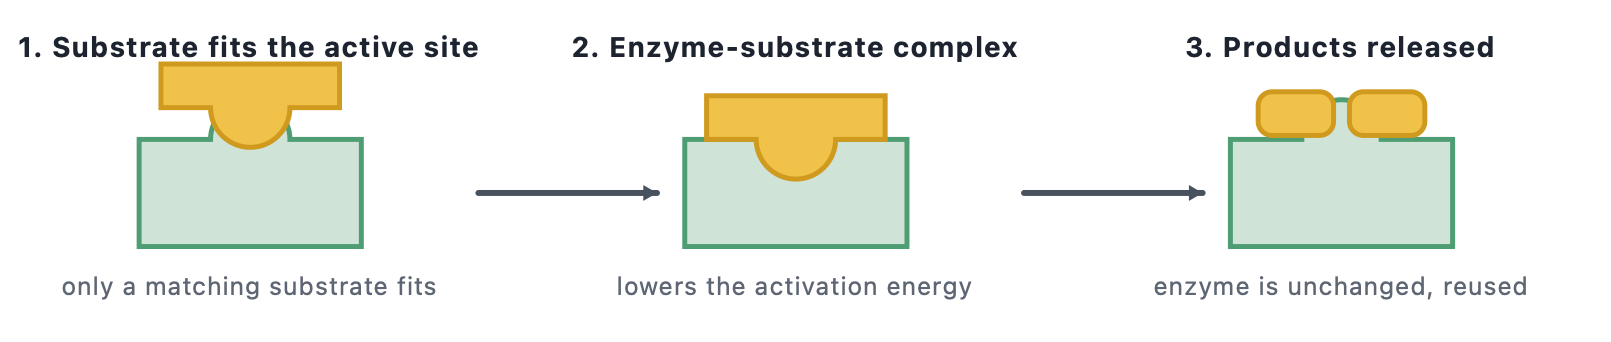
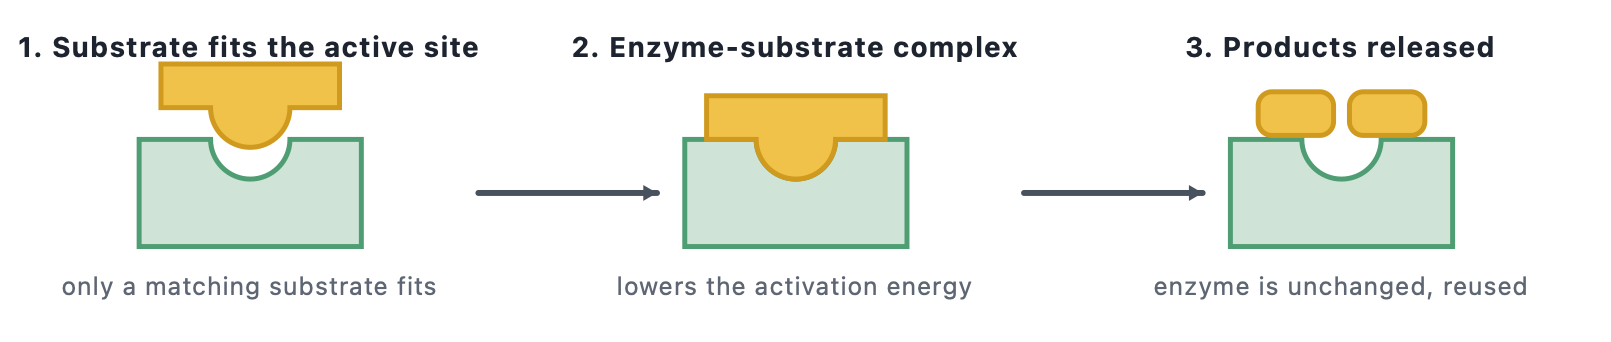
Biomolecules enzyme diagram: make the active site a concave notch
The enzyme's active site was bulging outward like the substrate's bump, so they
couldn't nest. Flip the arc so the notch dips INTO the enzyme (concave); the
substrate's bump now fits the active site. Update the summary and the notes
lock-and-key diagram.

Changed region(s): [[0.807, 0.2924, 0.869, 0.5263], [0.1241, 0.3801, 0.1862, 0.5263]]

diff --git a/tools/gen_biomolecules_summary.py b/tools/gen_biomolecules_summary.py
@@ -27,7 +27,9 @@ def tube(x,y,liquid):
 ENZF="#cfe3d6"; ENZS="#4f9d73"; SUBF="#f0c24a"; SUBS="#d09a1e"
 def enzyme(cx, ytop, w=112, h=54, notch=20):
     L=cx-w/2; R=cx+w/2; nl=cx-notch; nr=cx+notch; B=ytop+h
-    d=f'M{L},{ytop} H{nl} A{notch},{notch} 0 0 1 {nr},{ytop} H{R} V{B} H{L} Z'
+    # sweep-flag 0 makes the arc dip DOWN into the block (a concave active-site
+    # notch) rather than bulging out, so the substrate's bump fits into it.
+    d=f'M{L},{ytop} H{nl} A{notch},{notch} 0 0 0 {nr},{ytop} H{R} V{B} H{L} Z'
     return f'<path d="{d}" fill="{ENZF}" stroke="{ENZS}" stroke-width="2.5"/>'
 def substrate(cx, ytop, w=90, h=22, bump=20):
     L=cx-w/2; R=cx+w/2; B=ytop+h; bl=cx-bump; br=cx+bump
